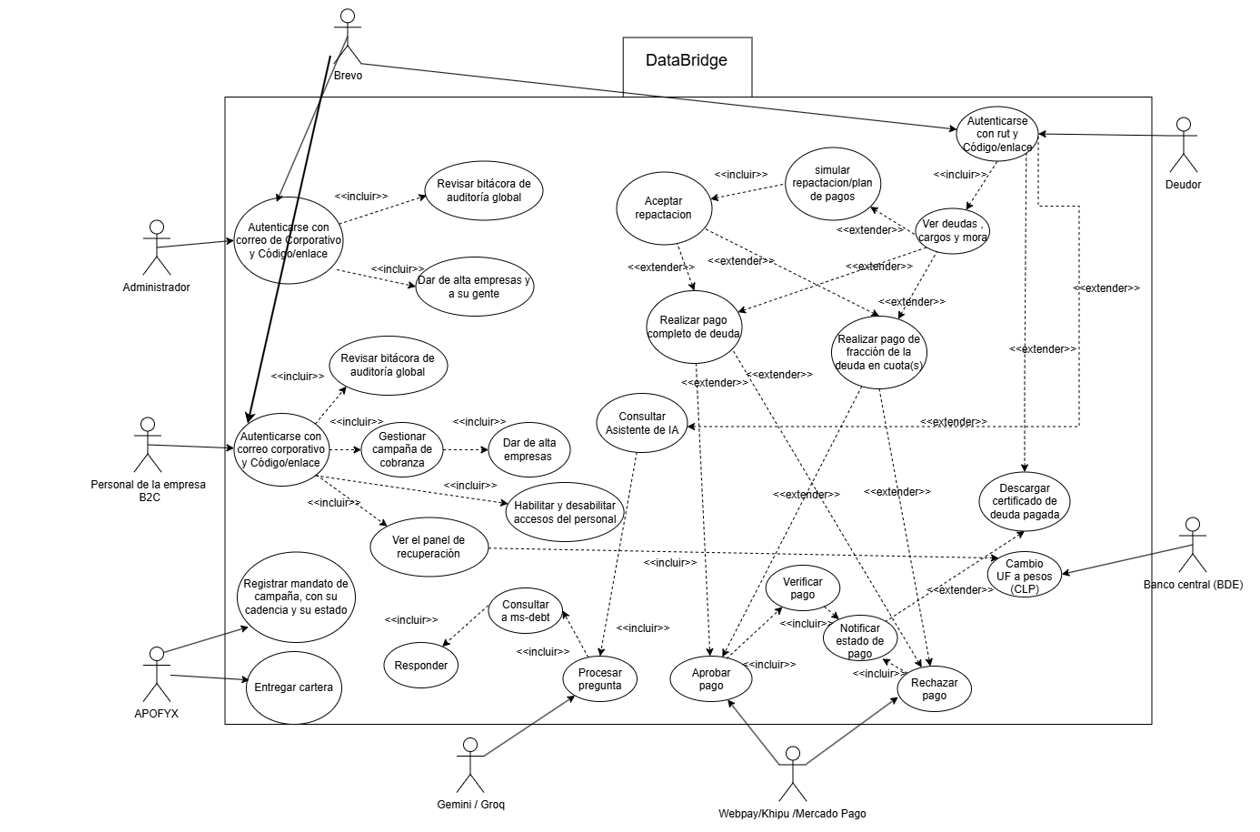
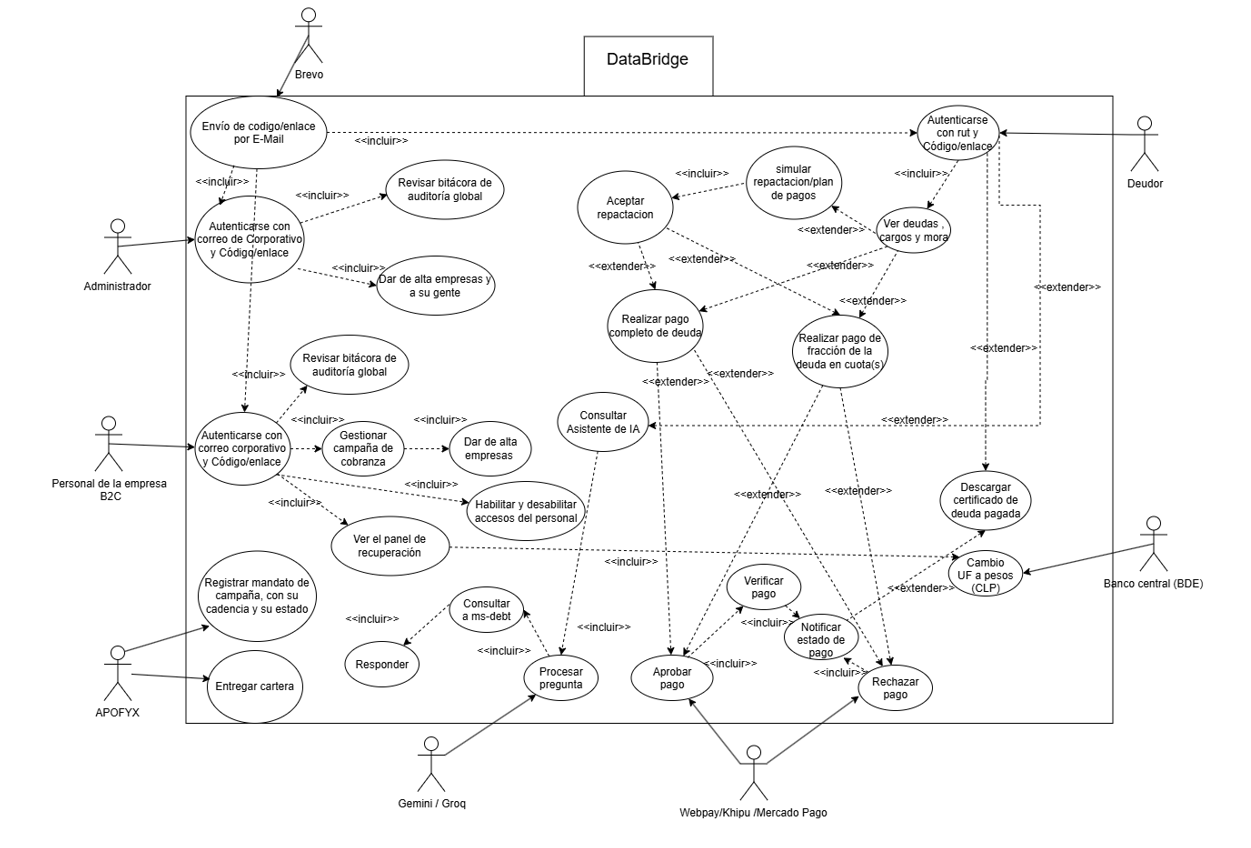
Supresión de diagramas Mermaid
Se borraron la mayoría de los diagramas mermaid y se actualizó el diagrama de Casos de uso en la carpeta

diff --git a/README.md b/README.md
@@ -291,127 +291,6 @@ DataBridge está estructurado bajo una **arquitectura de microservicios orientad
 
 ![Diagrama de Componentes](docs/diagramas%20reales/DiagramaComponentes/COMPONENTES.png)
 
-```mermaid
-flowchart TB
-    subgraph CLIENTES["Capa de Clientes"]
-        NAV(["Navegador Web<br/>(Deudor · Personal de Empresa · Admin)"])
-        EXT(["Sistemas Externos<br/>(APOFYX · API Clientes)"])
-    end
-
-    subgraph ENTRADA["Perímetro de Entrada"]
-        PORTAL["React Web Portal<br/>(Servido por nginx)<br/>Zustand · React Router 7 · Vite"]
-        GATEWAY["Spring Cloud Gateway<br/>CORS · Bucket4j · Rate Limiting · Enrutamiento"]
-        PORTAL -->|"/api (Proxy inverso)"| GATEWAY
-    end
-
-    subgraph SERVICIOS["Microservicios Backend (Java 25 · Spring Boot 3.5)"]
-        AUTH["ms-auth<br/>Autenticación ES256 / JWKS<br/>Sesiones y Correo"]
-        DEBT["ms-debt<br/>Deudas · Convenios · Campañas<br/>Mandatos y Reclamos"]
-        PAY["ms-payments<br/>Gestión de Cobros<br/>Conversión UF a CLP"]
-        AI["ms-ai<br/>Asistente Inteligente<br/>Consultas en Lenguaje Natural"]
-    end
-
-    subgraph PERSISTENCIA["Bases de Datos Aisladas (MySQL 8.4)"]
-        DB_AUTH[("tb-auth<br/>(MySQL)")]
-        DB_DEBT[("tb-debt<br/>(MySQL)")]
-        DB_PAY[("tb_payments<br/>(MySQL)")]
-    end
-
-    subgraph MENSAJERIA["Mensajería Asíncrona"]
-        RMQ{{"RabbitMQ<br/>(AMQP 0-9-1)"}}
-    end
-
-    subgraph EXTERNOS["Servicios y Pasarelas Externas"]
-        BREVO(["Servicio de Correo<br/>(Brevo API / SMTP)"])
-        PASARELAS(["Pasarelas de Pago<br/>(Webpay · Khipu · Mercado Pago)"])
-        BC_UF(["Banco Central de Chile<br/>(API REST si3.bcentral.cl)"])
-        LLMS(["Modelos LLM<br/>(Groq API / Gemini API)"])
-        APO_SYS(["APOFYX<br/>(Cartera API / Eventos HMAC)"])
-    end
-
-    NAV -->|"HTTPS"| PORTAL
-    EXT -.->|"/api/v1 (Clave API)"| GATEWAY
-
-    GATEWAY -->|"/api/auth/**"| AUTH
-    GATEWAY -->|"/api/debts/** · /api/analytics/**"| DEBT
-    GATEWAY -->|"/api/payments/**"| PAY
-    GATEWAY -->|"/api/ai/**"| AI
-
-    AUTH -->|"JDBC"| DB_AUTH
-    DEBT -->|"JDBC"| DB_DEBT
-    PAY -->|"JDBC"| DB_PAY
-
-    AUTH -->|"HTTPS / SMTP"| BREVO
-    DEBT <-->|"HTTP Interno (X-Internal-Key)"| AUTH
-    PAY -->|"GET /internal/debts/{id}"| DEBT
-    AI -->|"GET /api/debts (con JWT deudor)"| DEBT
-
-    PAY -.->|"pago.confirmado"| RMQ
-    RMQ -.->|"Consumo asíncrono"| DEBT
-
-    PAY <-->|"HTTPS"| PASARELAS
-    PAY -->|"HTTPS (Consulta UF)"| BC_UF
-    AI -->|"HTTPS"| LLMS
-    DEBT -.->|"Webhooks HMAC-SHA256"| APO_SYS
-```
-
----
-
-### Diagrama de despliegue físico
-
-![Diagrama de Despliegue](docs/diagramas%20reales/DiagramaDespliegue/DESPLIEGUE.png)
-
-```mermaid
-flowchart LR
-    subgraph DISPOSITIVO["Dispositivo Cliente"]
-        BROWSER["Navegador Web<br/>DataBridge Web Portal"]
-    end
-
-    subgraph HOST["Servidor de Aplicación (Host Docker)"]
-        subgraph CONT_PROXY["Servidor API Gateway / Portal"]
-            GW_SRV["Servicio API Gateway & nginx<br/>(Puerto 8080)"]
-        end
-
-        subgraph CONT_AUTH["Dominio Auth"]
-            MS_AUTH["Servicio ms-auth<br/>(Puerto 8081)"]
-            DB_AUTH_SRV[("Base de datos tb-auth<br/>(MySQL 8.4 · Puerto 3308)")]
-            MS_AUTH --> DB_AUTH_SRV
-        end
-
-        subgraph CONT_DEBT["Dominio Debt"]
-            MS_DEBT["Servicio ms-debt<br/>(Puerto 8082)"]
-            DB_DEBT_SRV[("Base de datos tb-debt<br/>(MySQL 8.4 · Puerto 3309)")]
-            MS_DEBT --> DB_DEBT_SRV
-        end
-
-        subgraph CONT_PAY["Dominio Payments"]
-            MS_PAY["Servicio ms-payments<br/>(Puerto 8083)"]
-            DB_PAY_SRV[("Base de datos tb-payments<br/>(MySQL 8.4 · Puerto 3310)")]
-            MS_PAY --> DB_PAY_SRV
-        end
-
-        subgraph CONT_MQ["Broker"]
-            RABBIT_SRV{{"Servidor RabbitMQ<br/>(Puertos 5672 / 15672)"}}
-        end
-
-        subgraph CONT_AI["Dominio AI"]
-            MS_AI["Servicio ms-ai<br/>(Puerto 8084)"]
-        end
-    end
-
-    BROWSER -->|"HTTP/HTTPS :8080"| GW_SRV
-    GW_SRV --> MS_AUTH
-    GW_SRV --> MS_DEBT
-    GW_SRV --> MS_PAY
-    GW_SRV --> MS_AI
-
-    MS_PAY -.->|"AMQP"| RABBIT_SRV
-    RABBIT_SRV -.->|"AMQP"| MS_DEBT
-    MS_PAY -->|"HTTP Interno"| MS_DEBT
-    MS_AI -->|"HTTP"| MS_DEBT
-```
-
----
 
 ### Diagrama de secuencia del flujo principal
 
